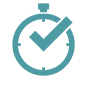
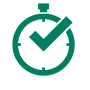
colour change
colour change

Changed region(s): [[0.1333, 0.0222, 0.8444, 0.8444]]

diff --git a/css/styles.css b/css/styles.css
@@ -801,7 +801,7 @@ Features List
     margin-right: 25px;
     width: 90px;
     height: 90px;
-    border: solid 2px #4e9ba3;
+    border: solid 2px #037f5f;
     border-radius: 50%;
     vertical-align: top;
     text-align: center;
@@ -809,7 +809,7 @@ Features List
     line-height: 90px;
 }
 .feature-icon i {
-    color: #4e9ba3
+    color: #037f5f
 }
 
 /* ==========================================================================
